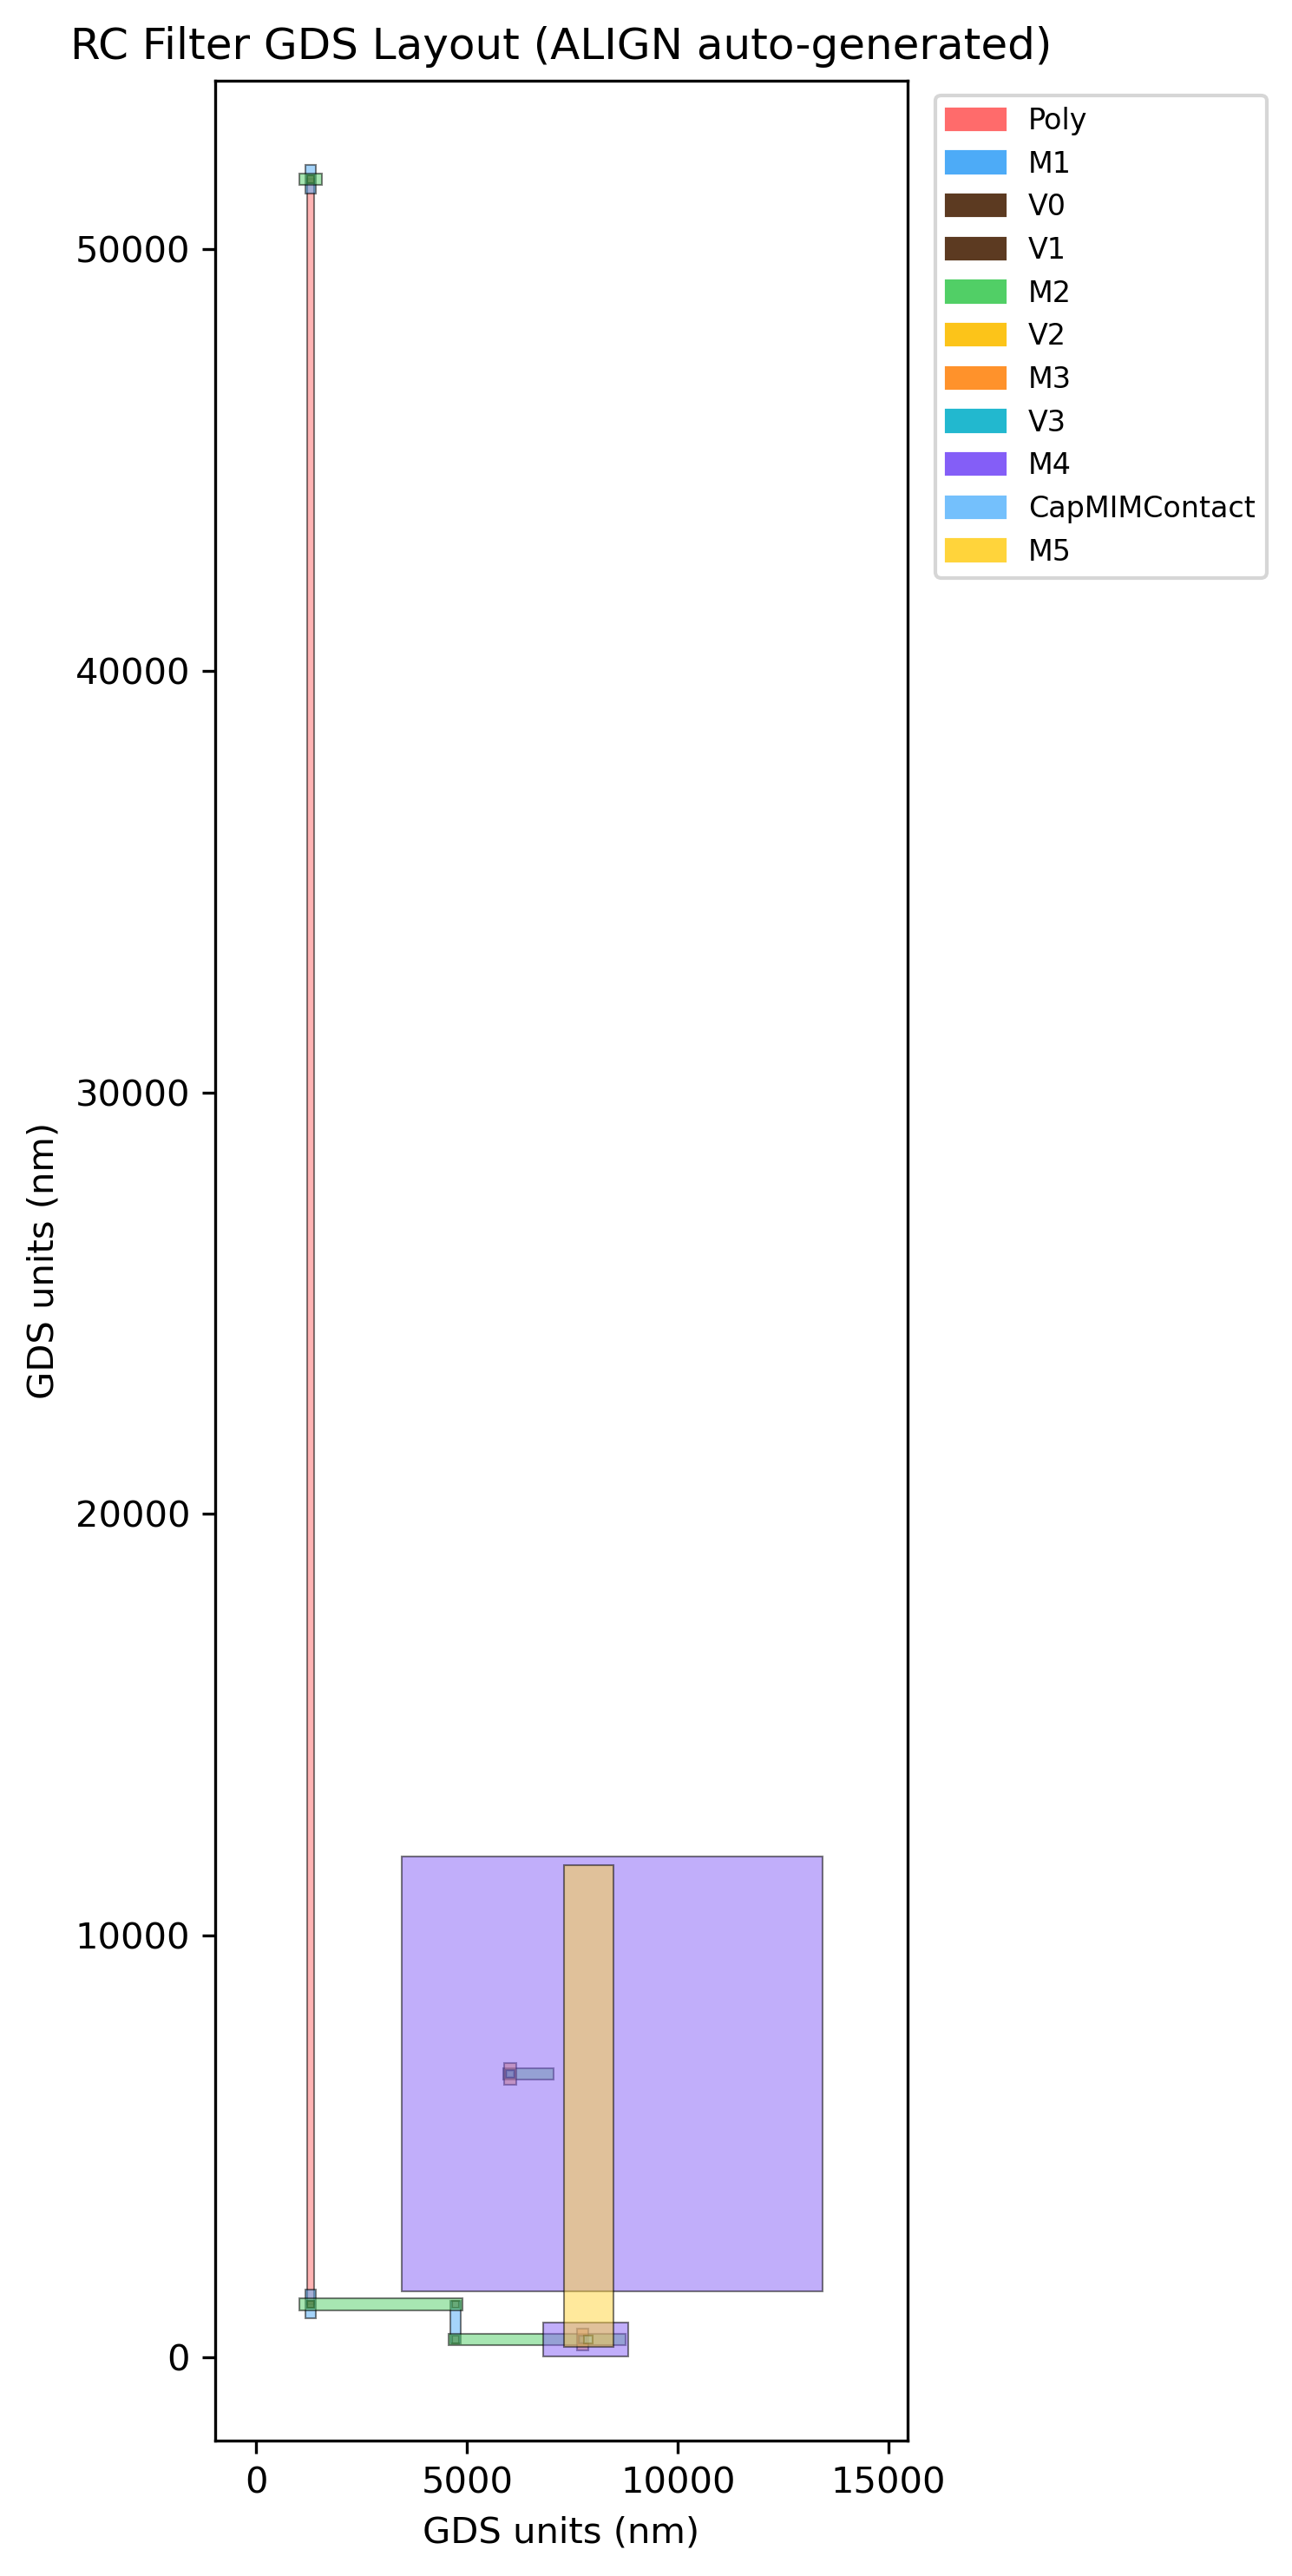
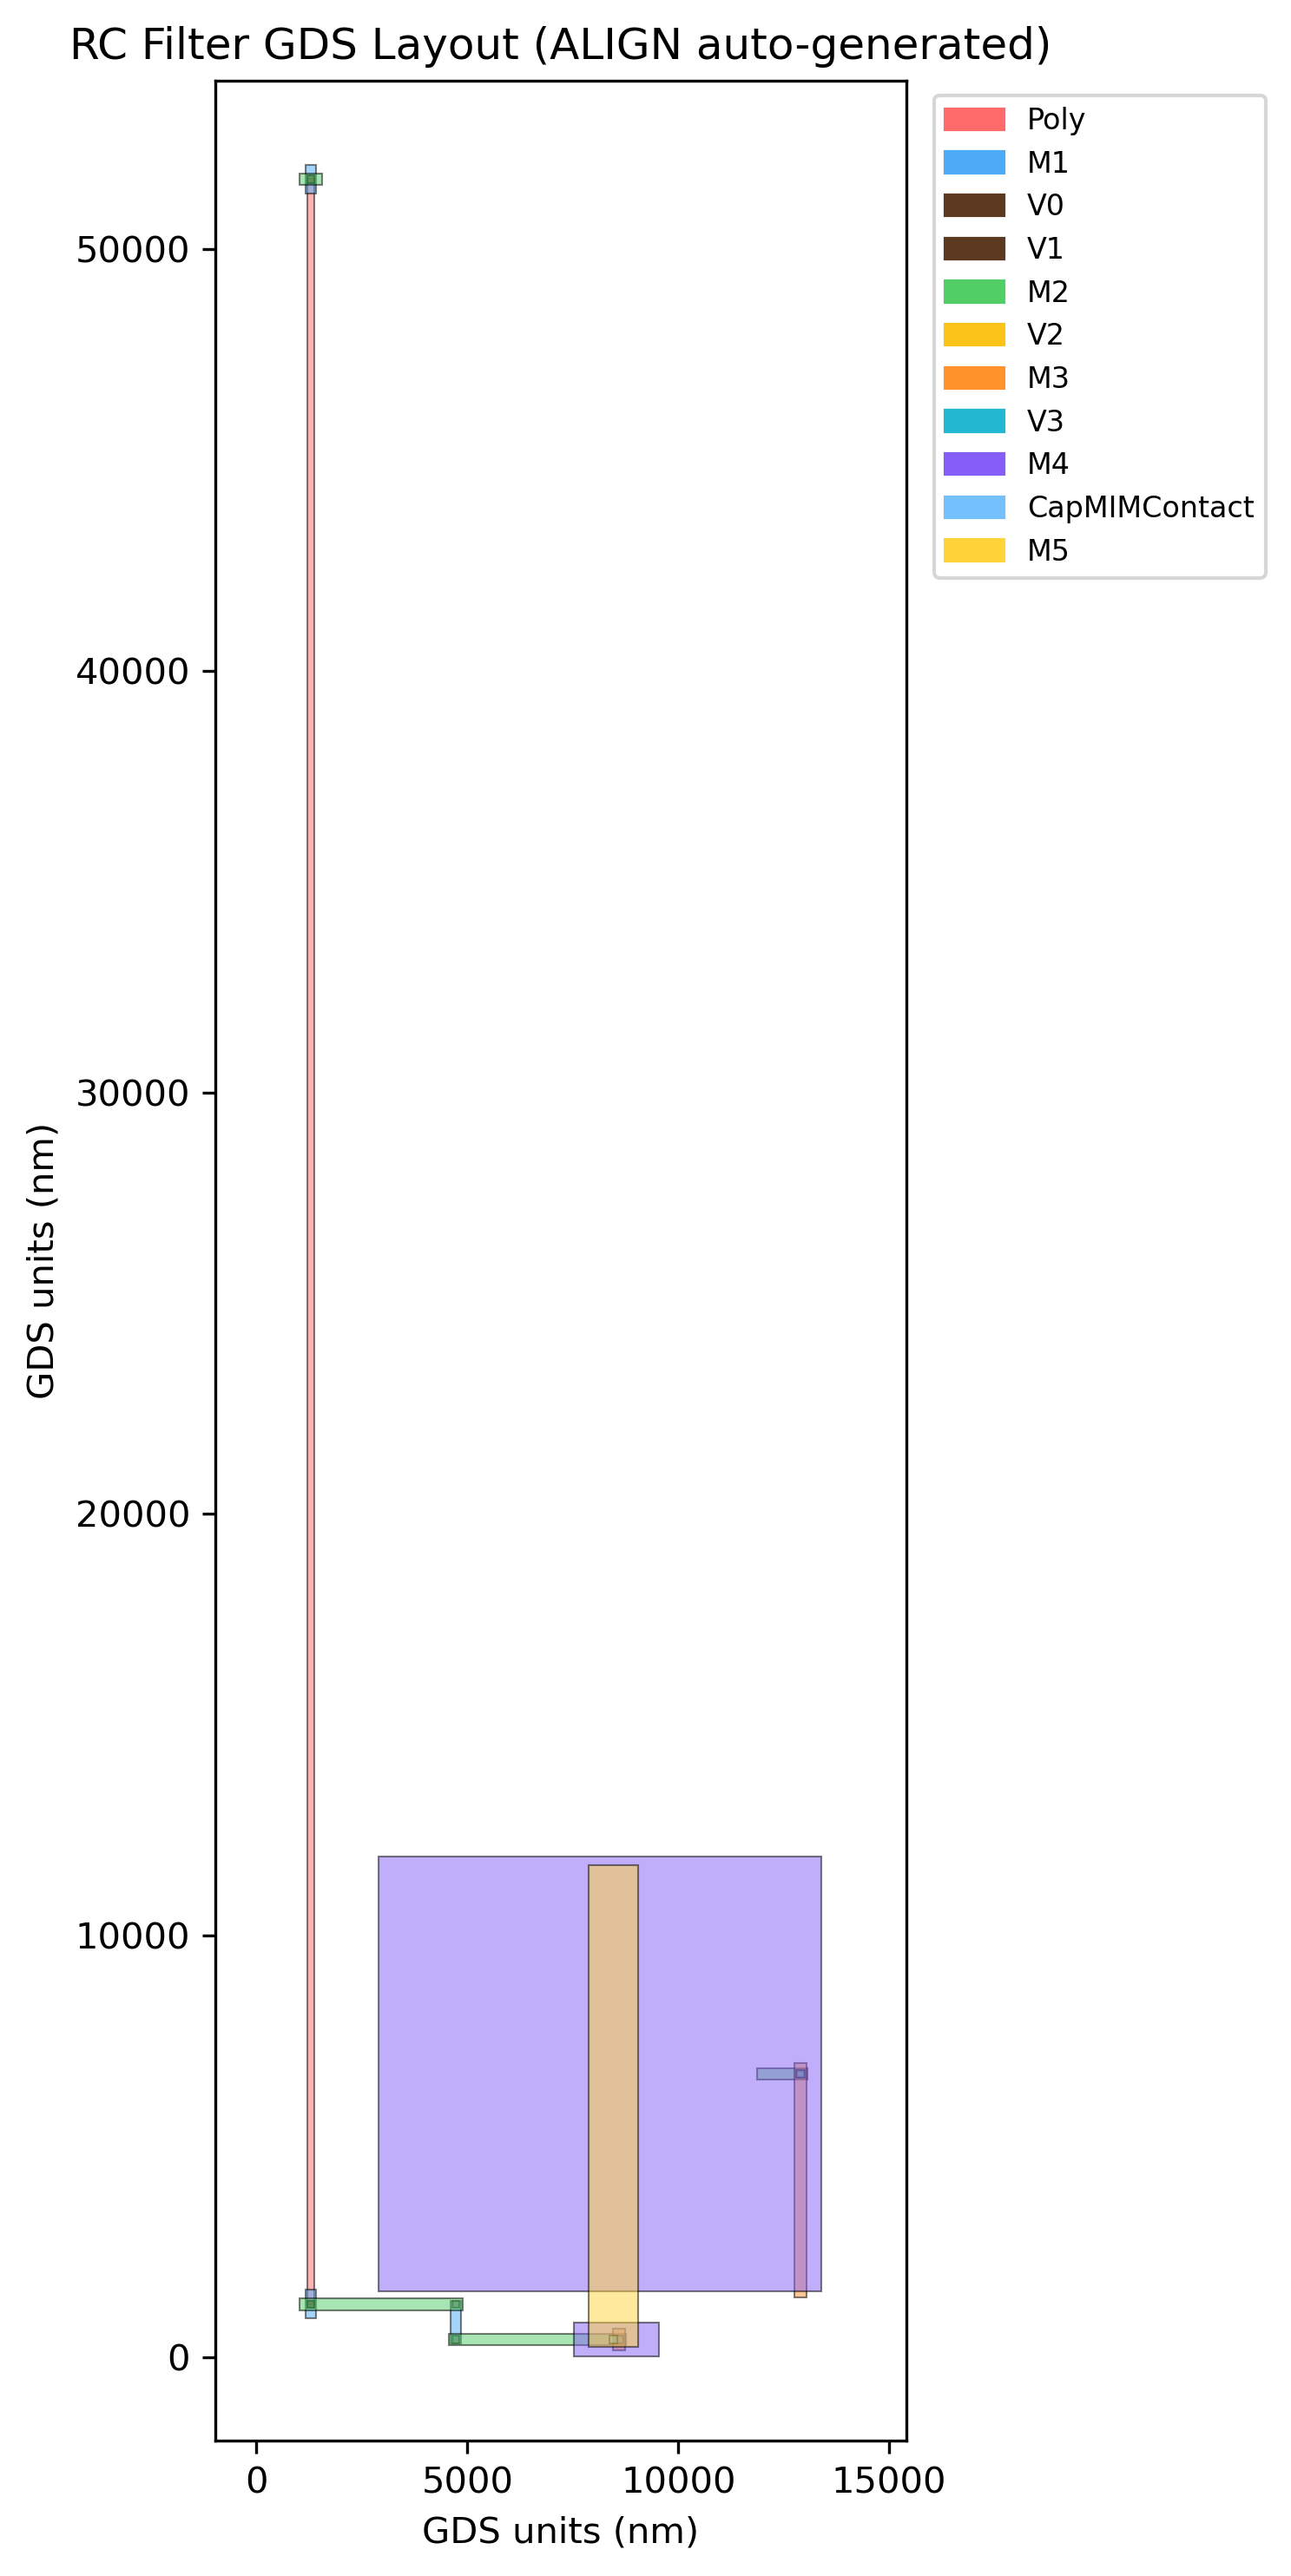
fix

diff --git a/rc_filter/align/draw_extracted_schematic.py b/rc_filter/align/draw_extracted_schematic.py
@@ -1,0 +1,102 @@
+#!/usr/bin/env python3
+"""Draw a simple schematic from the Magic-extracted RC_FILTER netlist."""
+
+import json
+import re
+import sys
+import matplotlib
+matplotlib.use("Agg")
+import matplotlib.pyplot as plt
+import matplotlib.patches as patches
+
+
+def parse_pex(pex_path):
+    """Return (R_value, C_device_params) from the extracted netlist."""
+    with open(pex_path) as f:
+        text = f.read()
+    # Resistor:  R0 VOUT VIN sky130_fd_pr__res_generic_po w=30 l=10046
+    r_match = re.search(r'R0\s+VOUT\s+VIN\s+[^\n]+w=(\d+)\s+l=(\d+)', text)
+    r_width = int(r_match.group(1)) if r_match else None
+    r_length = int(r_match.group(2)) if r_match else None
+    # Capacitor: X0 VOUT VSS sky130_fd_pr__cap_mim_m3_1 l=1940 w=1940
+    c_match = re.search(r'X0\s+VOUT\s+VSS\s+[^\n]+l=(\d+)\s+w=(\d+)', text)
+    c_l = int(c_match.group(1)) if c_match else None
+    c_w = int(c_match.group(2)) if c_match else None
+    return (r_width, r_length), (c_l, c_w)
+
+
+def draw_resistor(ax, x, y, length=1.2, height=0.3, n_zigzag=6):
+    """Draw a zig-zag resistor from (x,y) to (x+length,y)."""
+    xs = [x]
+    ys = [y]
+    seg = length / (2 * n_zigzag + 1)
+    for i in range(n_zigzag):
+        xs.extend([x + (2*i + 1)*seg, x + (2*i + 2)*seg])
+        ys.extend([y + height/2 if i % 2 == 0 else y - height/2,
+                   y])
+    xs.append(x + length)
+    ys.append(y)
+    ax.plot(xs, ys, color="black", lw=1.5)
+
+
+def draw_capacitor(ax, x, y, plate_sep=0.12, plate_height=0.4):
+    """Draw a capacitor vertically from (x,y) down to (x,y - 1.0)."""
+    # top plate
+    ax.plot([x - plate_height/2, x + plate_height/2], [y, y],
+            color="black", lw=1.5)
+    # bottom plate
+    ax.plot([x - plate_height/2, x + plate_height/2],
+            [y - plate_sep, y - plate_sep], color="black", lw=1.5)
+    # vertical wires
+    ax.plot([x, x], [y + 0.15, y], color="black", lw=1.0)
+    ax.plot([x, x], [y - plate_sep, y - 0.6], color="black", lw=1.0)
+
+
+def main():
+    pex_path = sys.argv[1] if len(sys.argv) > 1 else "work/RC_FILTER_0.pex.spice"
+    out_path = sys.argv[2] if len(sys.argv) > 2 else "rc_filter_extracted_schematic.png"
+
+    (rw, rl), (cl, cw) = parse_pex(pex_path)
+    scale = 5e-9  # .option scale=5m => each unit is 5 nm
+    r_ohms = None
+    if rw and rl:
+        # Sky130 res_generic_po sheet resistance is ~300 ohm/sq for the abstract model
+        r_ohms = 300.0 * rl / rw
+
+    fig, ax = plt.subplots(figsize=(8, 5))
+    ax.set_xlim(-0.5, 3.5)
+    ax.set_ylim(-1.5, 1.5)
+    ax.axis("off")
+
+    # Input -> resistor -> output node
+    ax.plot([0, 0.6], [0, 0], color="black", lw=1.5)
+    draw_resistor(ax, 0.6, 0, length=1.2, height=0.25, n_zigzag=8)
+    ax.plot([1.8, 2.4], [0, 0], color="black", lw=1.5)
+
+    # Output node -> capacitor -> ground
+    draw_capacitor(ax, 2.4, 0, plate_sep=0.12, plate_height=0.4)
+
+    # Labels
+    ax.text(-0.1, 0.15, "VIN", fontsize=12, ha="right", va="bottom")
+    ax.text(2.4, 0.15, "VOUT", fontsize=12, ha="center", va="bottom")
+    ax.text(2.7, -0.9, "VSS", fontsize=12, ha="left", va="center")
+
+    # Device labels
+    r_text = f"R0\nsky130_fd_pr__res_generic_po\nw={rw} l={rl}"
+    if r_ohms:
+        r_text += f"\n≈ {r_ohms/1e3:.1f} kΩ"
+    ax.text(1.2, 0.45, r_text, fontsize=10, ha="center", va="bottom")
+
+    c_text = f"C0\nsky130_fd_pr__cap_mim_m3_1\nw={cw} l={cl}"
+    ax.text(1.45, -0.6, c_text, fontsize=10, ha="center", va="top")
+
+    ax.set_title("Schematic extracted from layout (RC_FILTER_0.pex.spice)",
+                 fontsize=13, pad=10)
+
+    plt.tight_layout()
+    plt.savefig(out_path, dpi=200, bbox_inches="tight")
+    print(f"Wrote extracted schematic to {out_path}")
+
+
+if __name__ == "__main__":
+    main()

diff --git a/ALIGN-public/pdks/SKY130_PDK/cap.py b/ALIGN-public/pdks/SKY130_PDK/cap.py
@@ -85,8 +85,10 @@ class CapGenerator(DefaultCanvas):
                                      spg=SingleGrid(pitch=1, offset=0)))
 
         # ---- Capacitor body ----
-        # Bottom plate (met3).
-        self.addWire(m4_plate, 'MINUS', 0, 0, L)
+        # Bottom plate (met3).  Extend it past the left edge of the capm
+        # region so the MINUS via can land outside the capacitor body.
+        m4_plate_overhang = 500
+        self.addWire(m4_plate, 'MINUS', 0, -m4_plate_overhang, L)
 
         # MIM top plate (capm), inset from the bottom plate by capm_enc.
         self.addRegion(self.mim_region, None, capm_enc, capm_enc,
@@ -115,10 +117,12 @@ class CapGenerator(DefaultCanvas):
             y += mimcc_size + mimcc_space
 
         # ---- MINUS terminal: M4 plate -> V3 -> M3 -> V2 -> M2 pin ----
-        m3_track_minus = max(1, int(round((L / 4) / m3_pitch)))
+        # Drop the MINUS pin from the left edge of the M4 bottom plate, outside
+        # the capm region.  A long M3 strap brings it up to the M2 pin.
+        m3_track_minus = 0
         self.addVia(self.v3, 'MINUS', m3_track_minus, m4_track)
         self.addWire(self.m3, 'MINUS', m3_track_minus,
-                     (m2_track - 1, 1), (m2_track, 3))
+                     (-1, 1), (m2_track, 3))
         self.addVia(self.v2, 'MINUS', m3_track_minus, m2_track)
         self.addWire(self.m2, 'MINUS', m2_track,
                      (m3_track_minus, -1), (m3_track_minus + 2, 1),